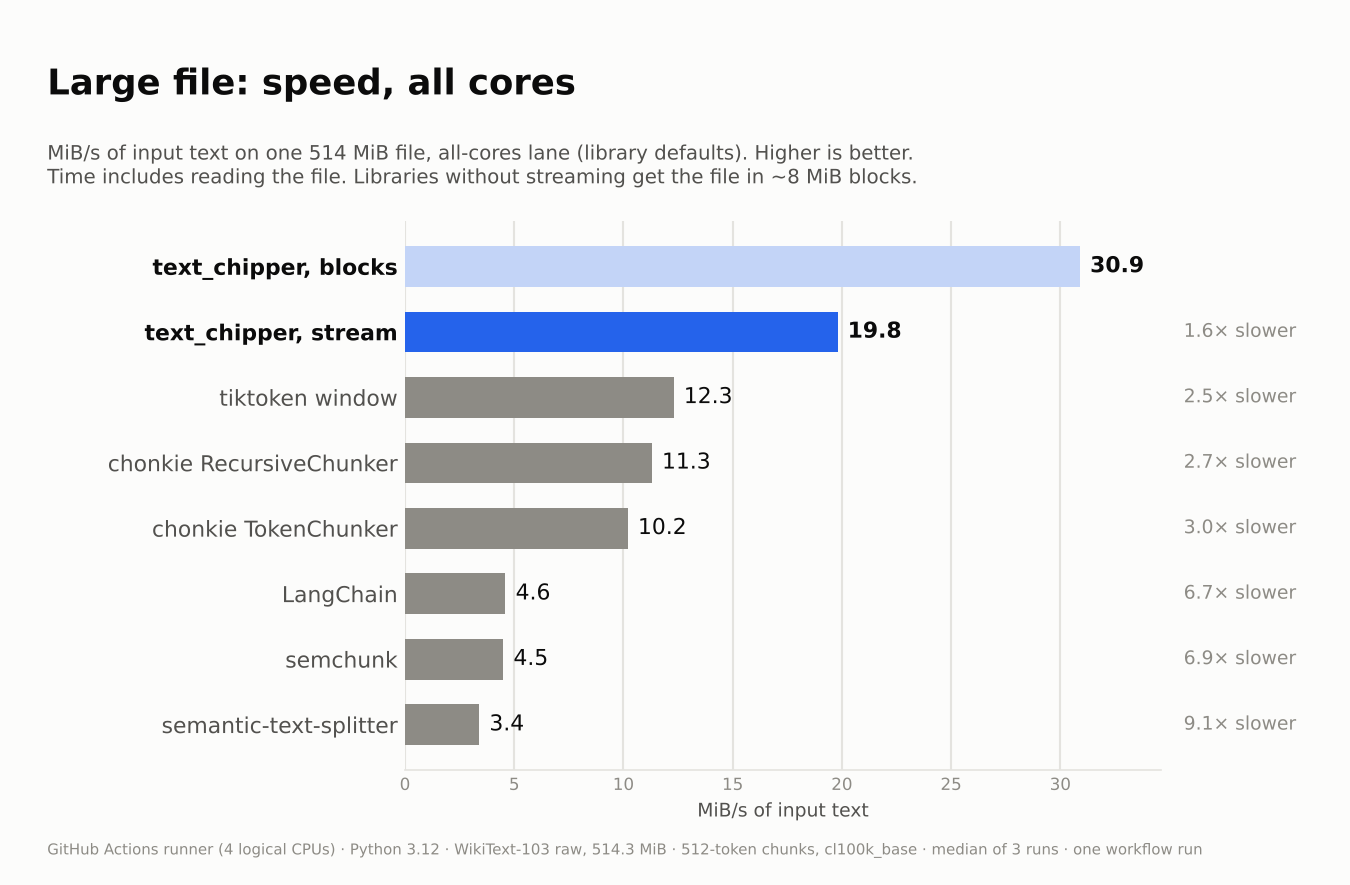
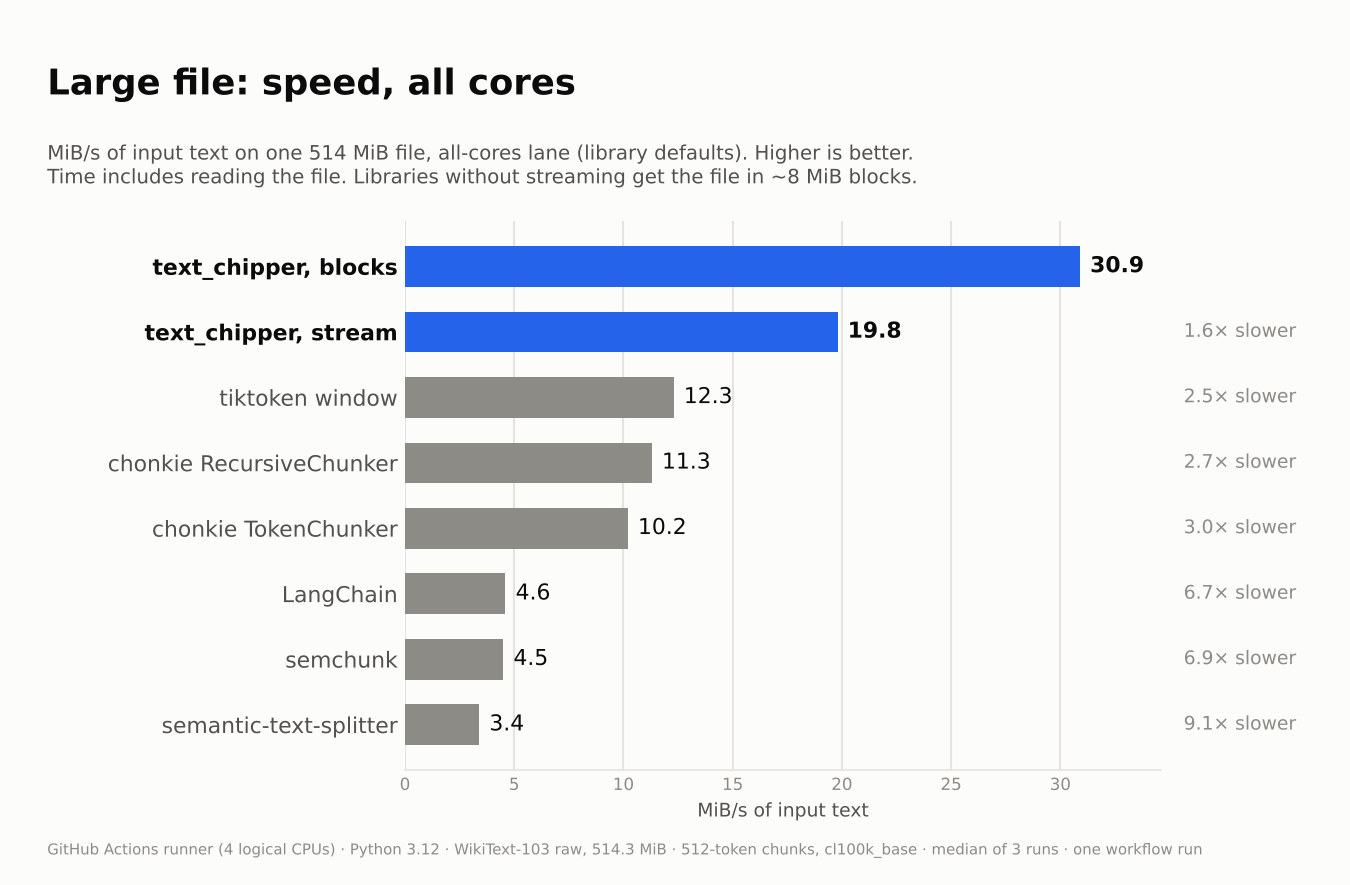
Fix benchmark charts && update plot_streaming.py

Changed region(s): [[0.28, 0.2746, 0.8089, 0.3356]]

diff --git a/benchmarks/plot_streaming.py b/benchmarks/plot_streaming.py
@@ -1,6 +1,6 @@
 """Charts for the large-file benchmark (results of streaming_bench.py), in the style of the main charts.
 
-Usage: python benchmarks/plot_streaming.py benchmarks/results/streaming_20261114/*.json [--out benchmarks/charts]
+Usage: python benchmarks/plot_streaming.py benchmarks/results/streaming_20261114/*.jsonl [--out benchmarks/charts]
 
 Timing and memory medians use only the runs WITHOUT --verify (verification builds extra objects).
 Writes streaming_speed_{single,all}.{png,svg} and streaming_memory_{single,all}.{png,svg}.
@@ -75,7 +75,7 @@ def style_axes(ax):
 
 def speed_chart(rows, lane, out, size):
     items = [("text_chipper, stream", med(rows, lane, "text_chipper:stream", "mib_per_s"), BLUE, True),
-             ("text_chipper, blocks", med(rows, lane, "text_chipper:blocks", "mib_per_s"), BLUE_L, True)]
+             ("text_chipper, blocks", med(rows, lane, "text_chipper:blocks", "mib_per_s"), BLUE, True)]
     items += [(LABEL[k], med(rows, lane, f"{k}:blocks", "mib_per_s"), GRAY, False) for k in OTHERS]
     items = sorted([i for i in items if i[1] is not None], key=lambda i: -i[1])
     top = max(v for _, v, _, _ in items)
